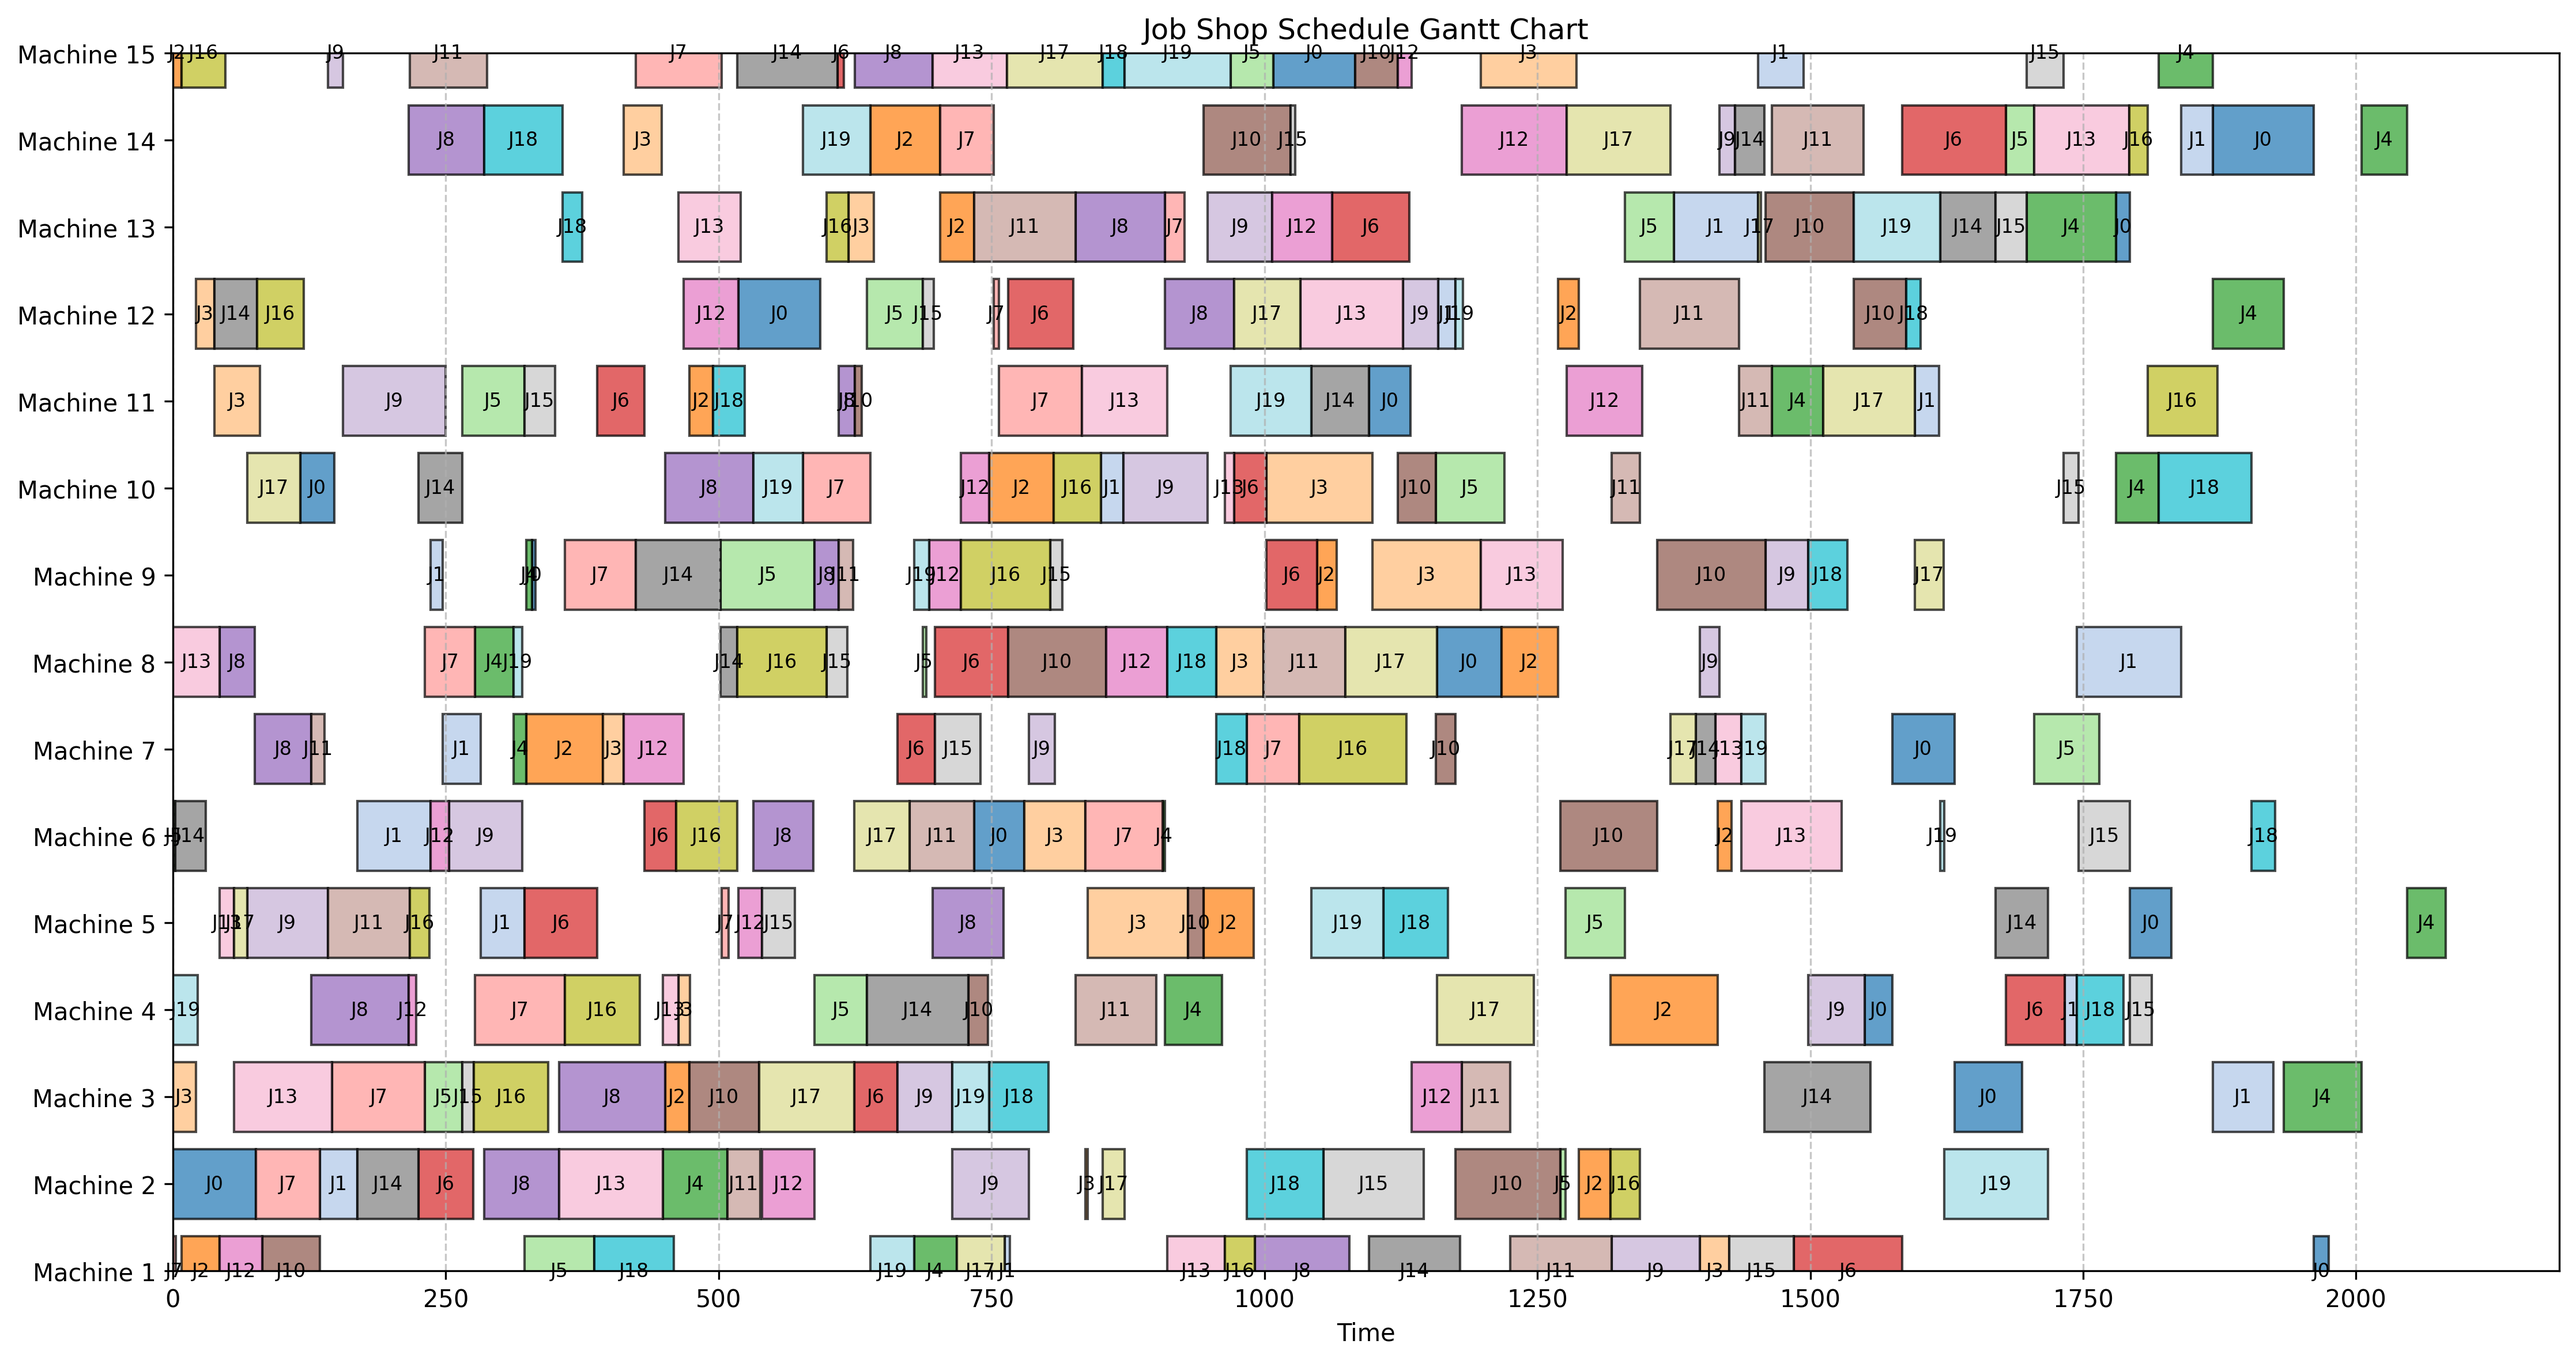
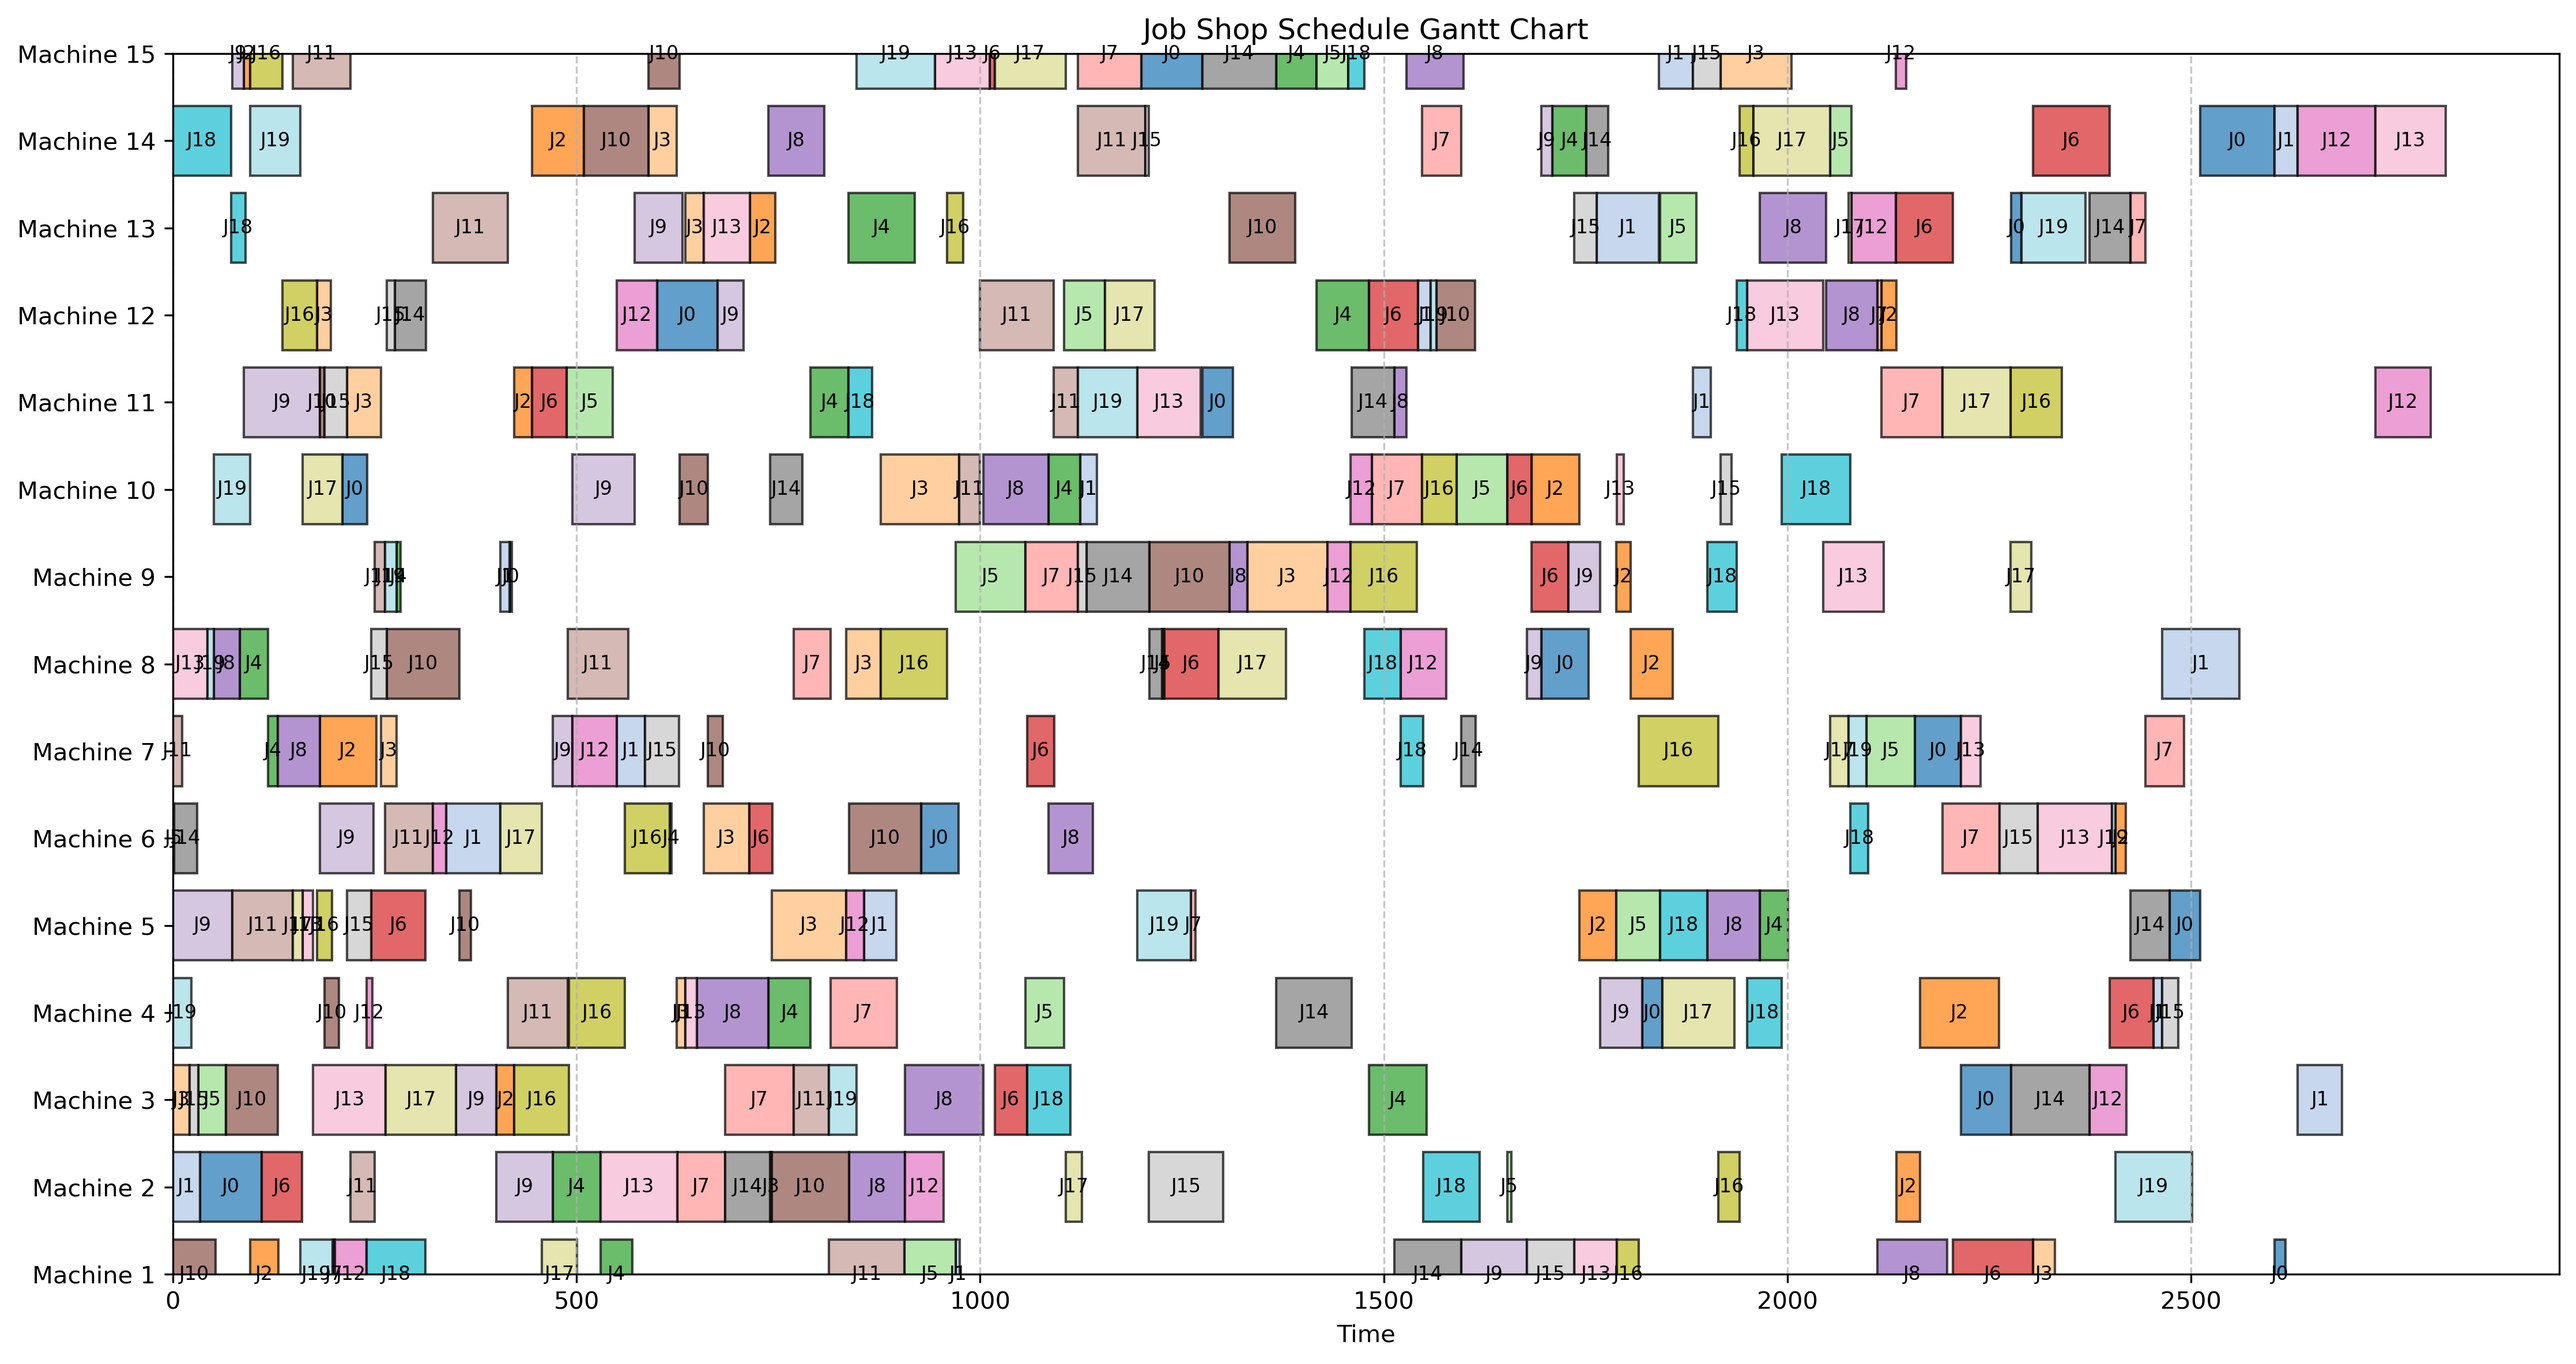
✨ PSO Code cleaned

diff --git a/src/modules/pso.py b/src/modules/pso.py
@@ -6,6 +6,11 @@ from src.modules.particle import Particle
 import math
 
 
+MIN_W = 0.2
+MAX_MUTATION = 0.6
+MAX_ATTEMPTS = 50
+
+
 class PSOOptimizer:
     """Enhanced PSO optimization process with stagnation handling."""
 
@@ -48,23 +53,6 @@ class PSOOptimizer:
 
         return diversity / len(particles)
 
-    def apply_mutation(self, particle: Particle, mutation_rate: float = 0.1):
-        """Apply mutation to a particle to maintain diversity."""
-        if random.random() < mutation_rate:
-            attempts = 0
-            while attempts < 10:
-                i, j = random.sample(range(len(particle.position)), 2)
-                if particle.position[i][0] != particle.position[j][0]:
-                    new_position = particle.position.copy()
-                    new_position[i], new_position[j] = new_position[j], new_position[i]
-
-                    if self.is_sequence_valid(
-                        new_position, new_position[i][0]
-                    ) and self.is_sequence_valid(new_position, new_position[j][0]):
-                        particle.position = new_position
-                        break
-                attempts += 1
-
     def is_sequence_valid(self, sequence: List[Tuple[int, int]], job_id: int) -> bool:
         """Check if operations for a job are in correct machine order."""
         job_ops = [op[1] for op in sequence if op[0] == job_id]
@@ -84,7 +72,9 @@ class PSOOptimizer:
             )
 
         # Add perturbed global best
-        perturbed = self.perturb_solution(global_best_position)
+        perturbed = self.perturb_solution(
+            global_best_position, max(len(global_best_position) // 5, 1)
+        )
         particles[-1] = Particle(perturbed, self.jssp.job_machine_dict)
 
     def perturb_solution(
@@ -95,7 +85,7 @@ class PSOOptimizer:
         swaps_applied = 0
         attempts = 0
 
-        while swaps_applied < num_swaps and attempts < 20:
+        while swaps_applied < num_swaps and attempts < MAX_ATTEMPTS:
             i, j = random.sample(range(len(perturbed)), 2)
             if perturbed[i][0] != perturbed[j][0]:
                 perturbed[i], perturbed[j] = perturbed[j], perturbed[i]
@@ -140,11 +130,11 @@ class PSOOptimizer:
             current_w = w
             current_mutation = mutation_rate
             if adaptive_params:
-                current_w = w * (1 - iteration / max_iter) + 0.4 * (
+                current_w = w * (1 - iteration / max_iter) + MIN_W * (
                     iteration / max_iter
                 )
                 current_mutation = min(
-                    0.5, mutation_rate * (1 + self.stagnation_count / 10)
+                    MAX_MUTATION, mutation_rate * (1 + self.stagnation_count / 10)
                 )
 
             # Evaluate particles
@@ -171,9 +161,11 @@ class PSOOptimizer:
 
             # Update particles
             for particle in particles:
-                particle.update_velocity(global_best_position, current_w, c1, c2)
+                particle.update_velocity(
+                    global_best_position, current_w, c1, c2, mutation_rate
+                )
                 particle.update_position()
-                self.apply_mutation(particle, current_mutation)
+                particle.apply_mutation(current_mutation)
 
             # Stagnation handling
             if self.stagnation_count >= max_stagnation:

diff --git a/src/modules/particle.py b/src/modules/particle.py
@@ -3,6 +3,9 @@ from typing import List, Tuple
 import random
 
 
+MAX_ATTEMPTS_MUTATION = 50
+
+
 class Particle:
     """Represents a particle in the PSO algorithm with improved diversity mechanisms."""
 
@@ -18,7 +21,7 @@ class Particle:
         self.best_fitness = float("inf")
         self.fitness = float("inf")
         self.job_machine_dict = job_machine_dict
-        self.max_velocity_size = max_velocity_size or max(1, len(sequence) // 2)
+        self.max_velocity_size = max_velocity_size or max(1, len(sequence) * 2)
         self.initialize_velocity()
 
     def initialize_velocity(self):
@@ -78,7 +81,7 @@ class Particle:
                 applied_swaps += 1
 
         self.position = new_position
-        return applied_swaps  # Return number of successful swaps
+        return applied_swaps
 
     def update_velocity(
         self,
@@ -112,7 +115,7 @@ class Particle:
         # 2. Cognitive component (personal best)
         for i in range(len(self.position)):
             if (
-                random.random() < c1
+                random.random() < random.random() * c1
                 and len(new_velocity) < self.max_velocity_size
                 and self.position[i] != self.best_position[i]
             ):
@@ -128,7 +131,7 @@ class Particle:
         # 3. Social component (global best)
         for i in range(len(self.position)):
             if (
-                random.random() < c2
+                random.random() < random.random() * c2
                 and len(new_velocity) < self.max_velocity_size
                 and self.position[i] != global_best_position[i]
             ):
@@ -147,7 +150,10 @@ class Particle:
             and len(new_velocity) < self.max_velocity_size
         ):
             attempts = 0
-            while attempts < 10 and len(new_velocity) < self.max_velocity_size:
+            while (
+                attempts < MAX_ATTEMPTS_MUTATION
+                and len(new_velocity) < self.max_velocity_size
+            ):
                 i, j = random.sample(range(len(self.position)), 2)
                 if (
                     can_add_swap(i, j)
@@ -165,7 +171,7 @@ class Particle:
         """Apply additional mutation to escape local optima."""
         if random.random() < mutation_rate:
             attempts = 0
-            while attempts < 10:
+            while attempts < MAX_ATTEMPTS_MUTATION:
                 i, j = random.sample(range(len(self.position)), 2)
                 if self.position[i][0] != self.position[j][0]:
                     new_position = self.position.copy()

diff --git a/main.py b/main.py
@@ -9,14 +9,15 @@ if __name__ == "__main__":
             dataset_path = os.path.join(dataset_folder, filename)
             processor = JSSPProcessor(dataset_path)
             best_schedule, best_makespan, exec_time = processor.run(
-                num_particles=20,
-                max_iter=2000,
-                w=0.5,
-                c1=1,
-                c2=2,
+                num_particles=100,
+                max_iter=1000,
+                w=0.9,
+                c1=2,
+                c2=1.5,
                 adaptive_params=True,
-                mutation_rate=0.2,
-                max_stagnation=20,
+                mutation_rate=0.5,
+                
+                max_stagnation=50,
                 early_stopping_window=None,
-                improvement_threshold=0.05,
+                improvement_threshold=0.01,
             )
